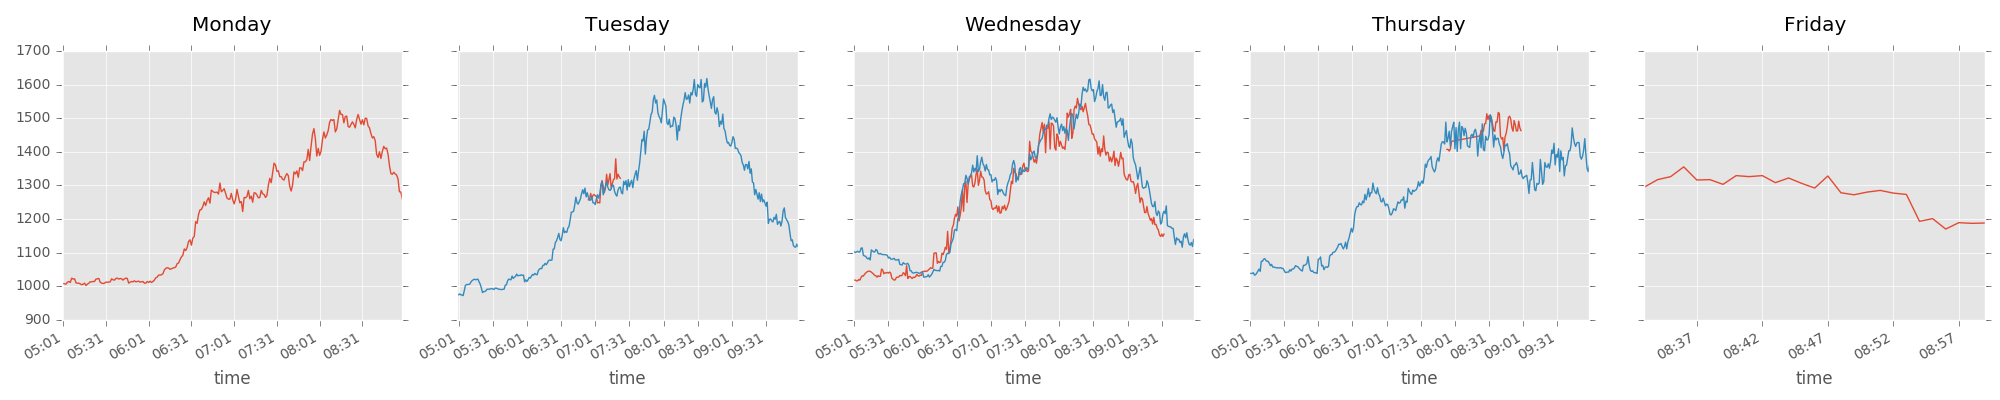
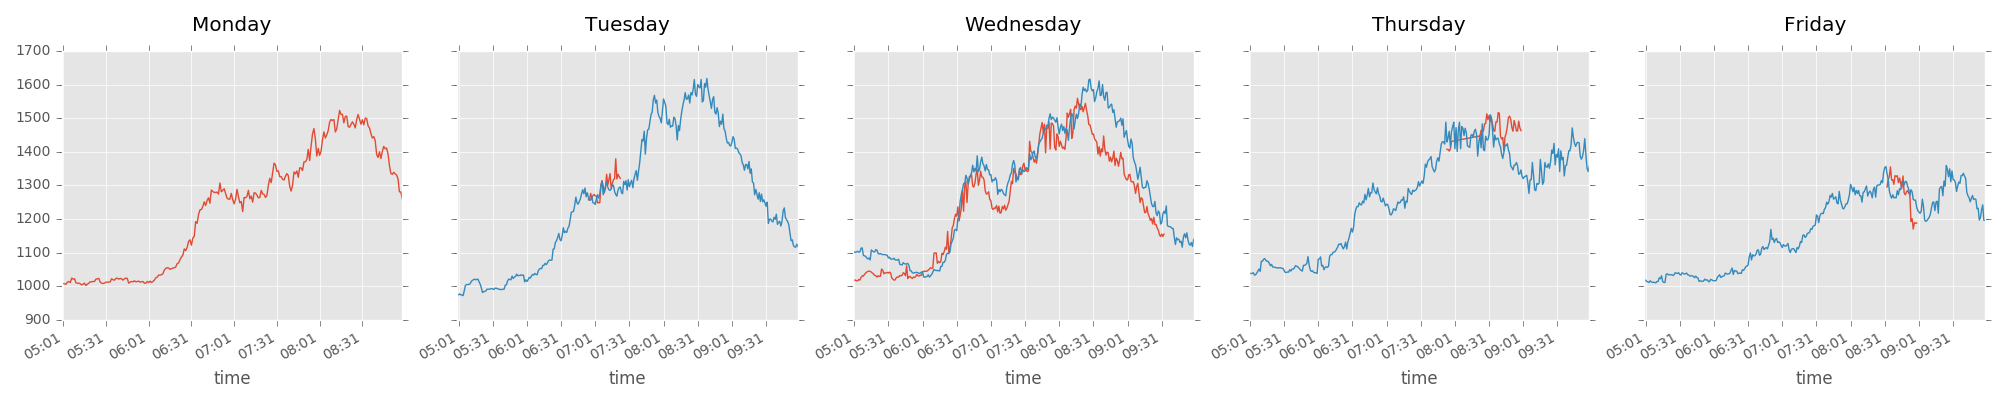
added more data

diff --git a/plotter.py b/plotter.py
@@ -5,6 +5,7 @@ import matplotlib.pyplot as plt
 plt.style.use('ggplot')
 from aws import connect_dynamodb
 from time import time
+import subprocess
 
 
 def morning_afternoon(t):
@@ -32,56 +33,40 @@ def make_df():
     return df
 
 
-def graph():
-    df = make_df()
-    df.set_index('time', inplace=True)
-    weekdays = list(range(1, 6))
-    week_dict = {1: 'Monday', 2: 'Tuesday', 3: 'Wednesday', 4: 'Thursday',  5: 'Friday'}
-    for weekday in weekdays:
-        day_df = df[(df['dow'] == weekday) & (df['m/a'] == 'm')]
-        fig, ax = plt.subplots(1, 1)
 
-        data_days = pd.unique(day_df['month_day']).tolist()
-        data_days.sort()
-        for data_day in data_days:
-            day_df[day_df['month_day'] == data_day][['duration']].plot(ax=ax)
-        ax.xaxis.set_major_formatter(mpl.dates.DateFormatter('%H:%M'))
-        plt.title(week_dict[weekday], y=1.05)
-        plt.savefig('images/{0}.png'.format(week_dict[weekday]))
-        plt.ylabel('commute time in seconds')
-        plt.show()
-        plt.close()
-
-
-def graph_5(tod, df=None):
+def graph_5(df=None):
     if df is None:
         df = make_df()
+
     weekdays = list(range(1, 6))
     week_dict = {1: 'Monday', 2: 'Tuesday', 3: 'Wednesday', 4: 'Thursday',  5: 'Friday'}
-    fig, axs = plt.subplots(1, 5, sharey=True, figsize=(20, 4))
 
-    for weekday, ax in zip(weekdays, axs.flatten()):
-        day_df = df[(df['dow'] == weekday) & (df['m/a'] == tod)]
-        data_days = pd.unique(day_df['month_day']).tolist()
-        data_days.sort()
-        for data_day in data_days:
-            day_df[day_df['month_day'] == data_day][['duration']].plot(ax=ax)
-            ax.xaxis.set_major_formatter(mpl.dates.DateFormatter('%H:%M'))
-            ax.set_title(week_dict[weekday], y=1.05)
-            ax.legend_.remove()
+    tod_options = ['morning', 'afternoon']
+    fig, all_axs = plt.subplots(2, 5, sharey=True, figsize=(20, 8))
+
+    for tod, axs in zip(tod_options, all_axs):
+        for weekday, ax in zip(weekdays, axs):
+            day_df = df[(df['dow'] == weekday) & (df['m/a'] == tod)]
+            data_days = pd.unique(day_df['month_day']).tolist()
+            data_days.sort()
+            for data_day in data_days:
+                day_df[day_df['month_day'] == data_day][['duration']].plot(ax=ax)
+                ax.xaxis.set_major_formatter(mpl.dates.DateFormatter('%H:%M'))
+                ax.set_title(week_dict[weekday], y=1.05)
+                ax.legend_.remove()
 
     plt.ylabel('commute time in seconds')
     plt.tight_layout()
-    plt.savefig('images/{0}.png'.format(tod))
-    plt.show()
+    save_name = 'images/data.png'
+    plt.savefig(save_name)
     plt.close()
+    subprocess.Popen(['open', save_name])
 
 
 def main():
     df = make_df()
     df.set_index('time', inplace=True)
-    for tod in ['morning', 'afternoon']:
-        graph_5(tod, df=df)
+    graph_5(df)
 
 if __name__ == '__main__':
     main()

diff --git a/time_functions.py b/time_functions.py
@@ -11,7 +11,7 @@ def test_time():
     a_open = dt.datetime(now.year, now.month, now.day, 16, 0, 00, 00)
     a_close = dt.datetime(now.year, now.month, now.day, 19, 0, 00, 00)
 
-    if (now > m_open and now < m_close) or (now > a_open and now < a_close):
+    if ((now > m_open and now < m_close) or (now > a_open and now < a_close)) and (now.isoweekday() <= 5):
         return True
     else:
         return False
